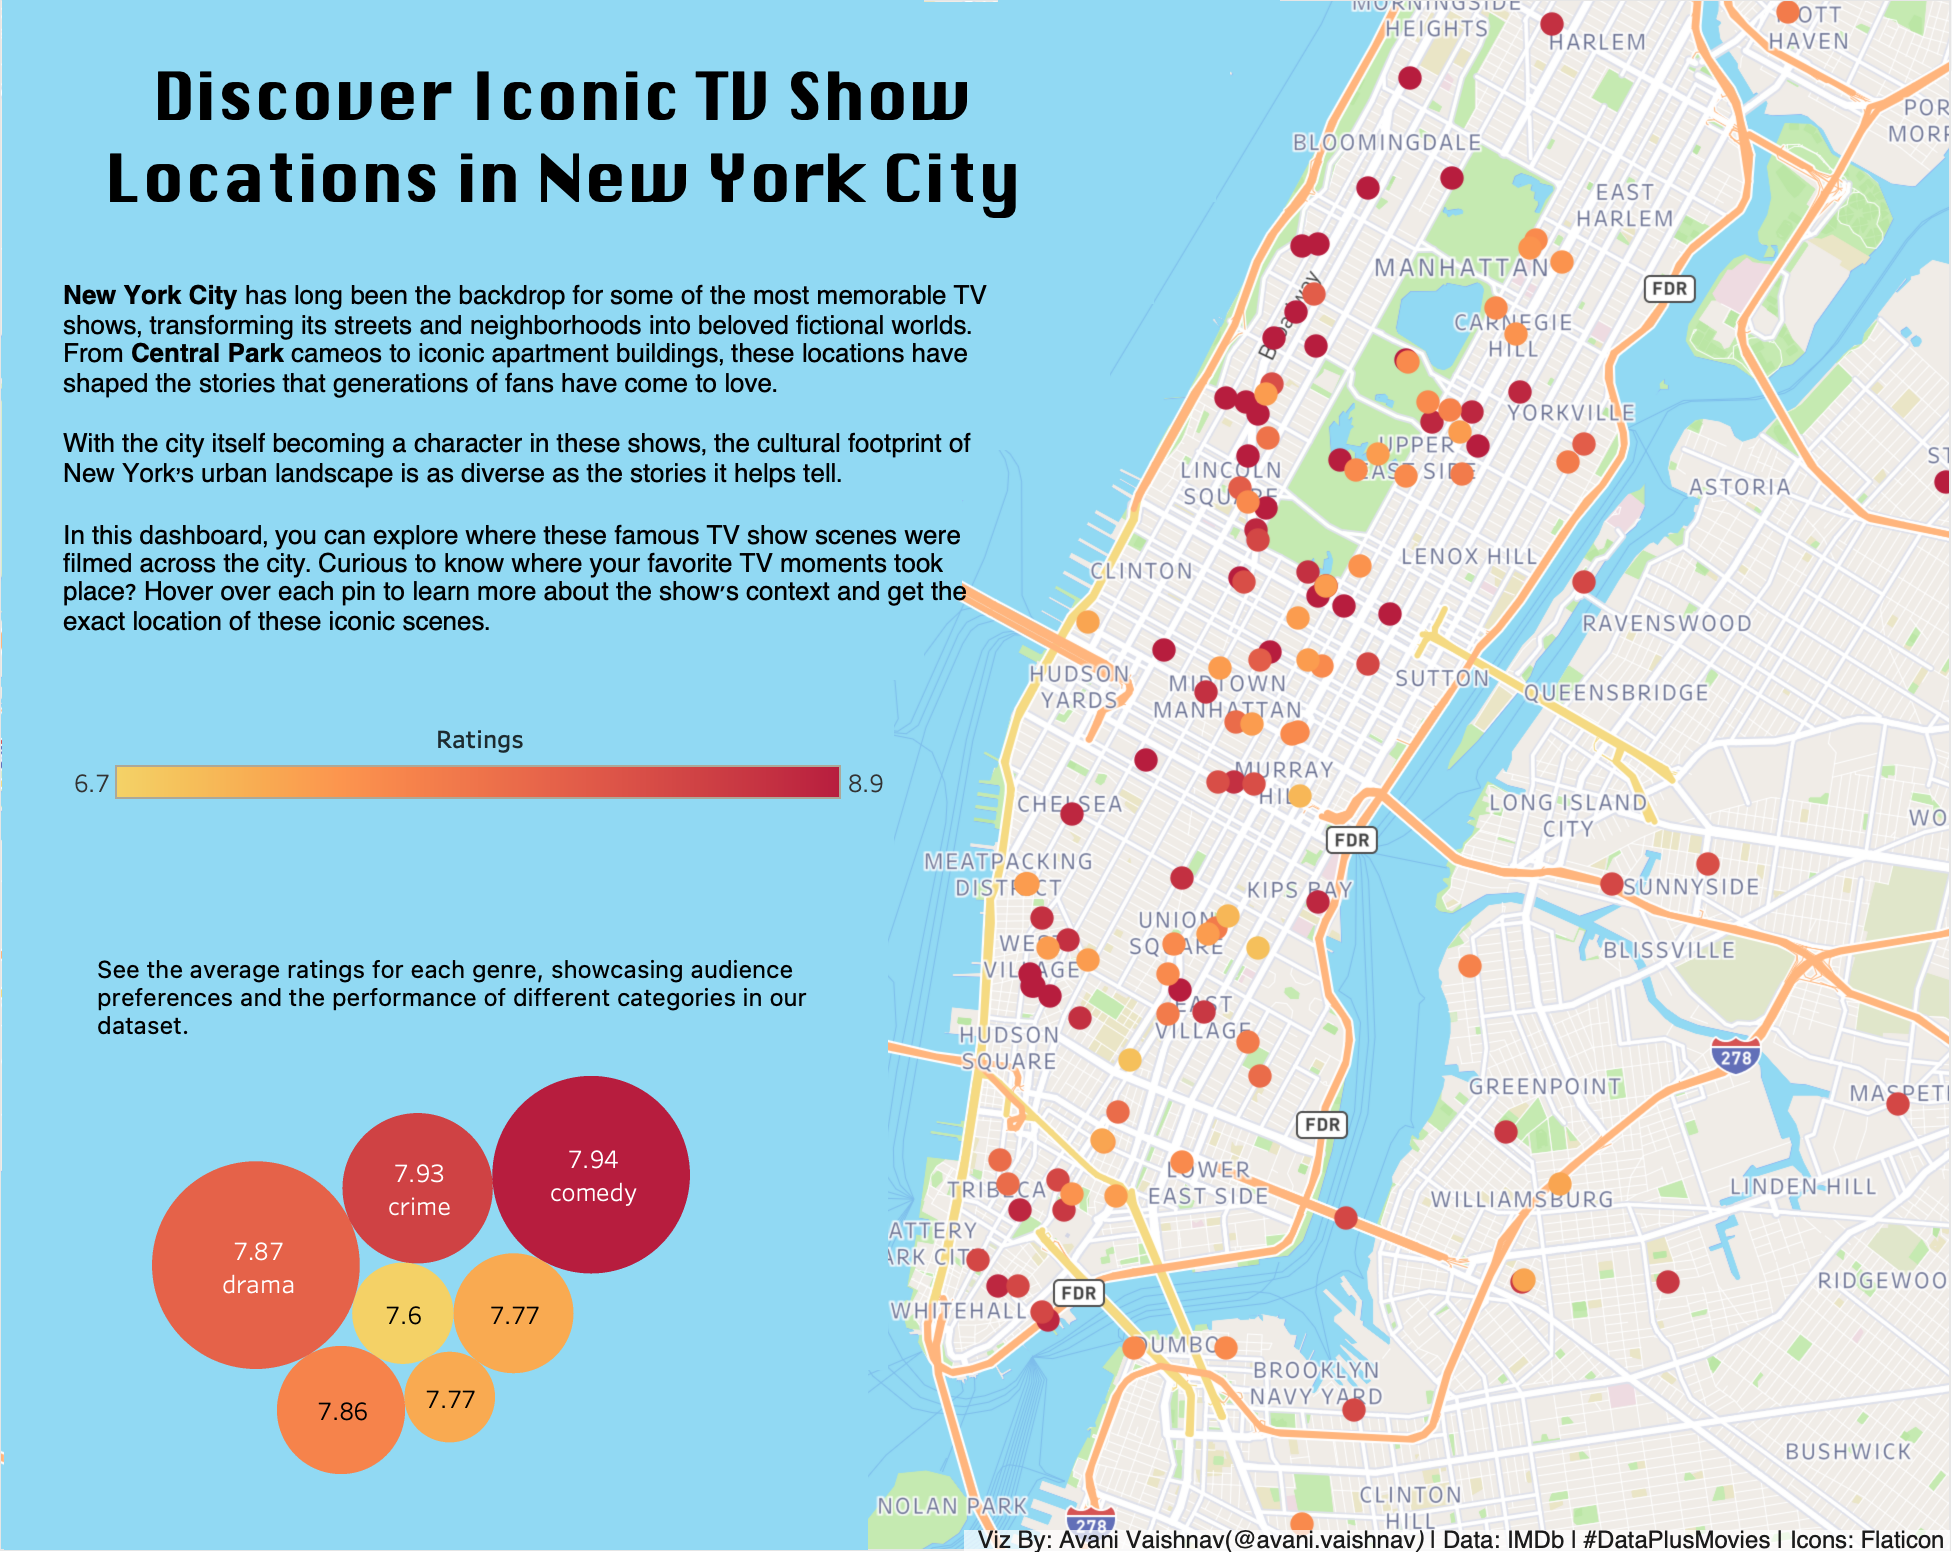
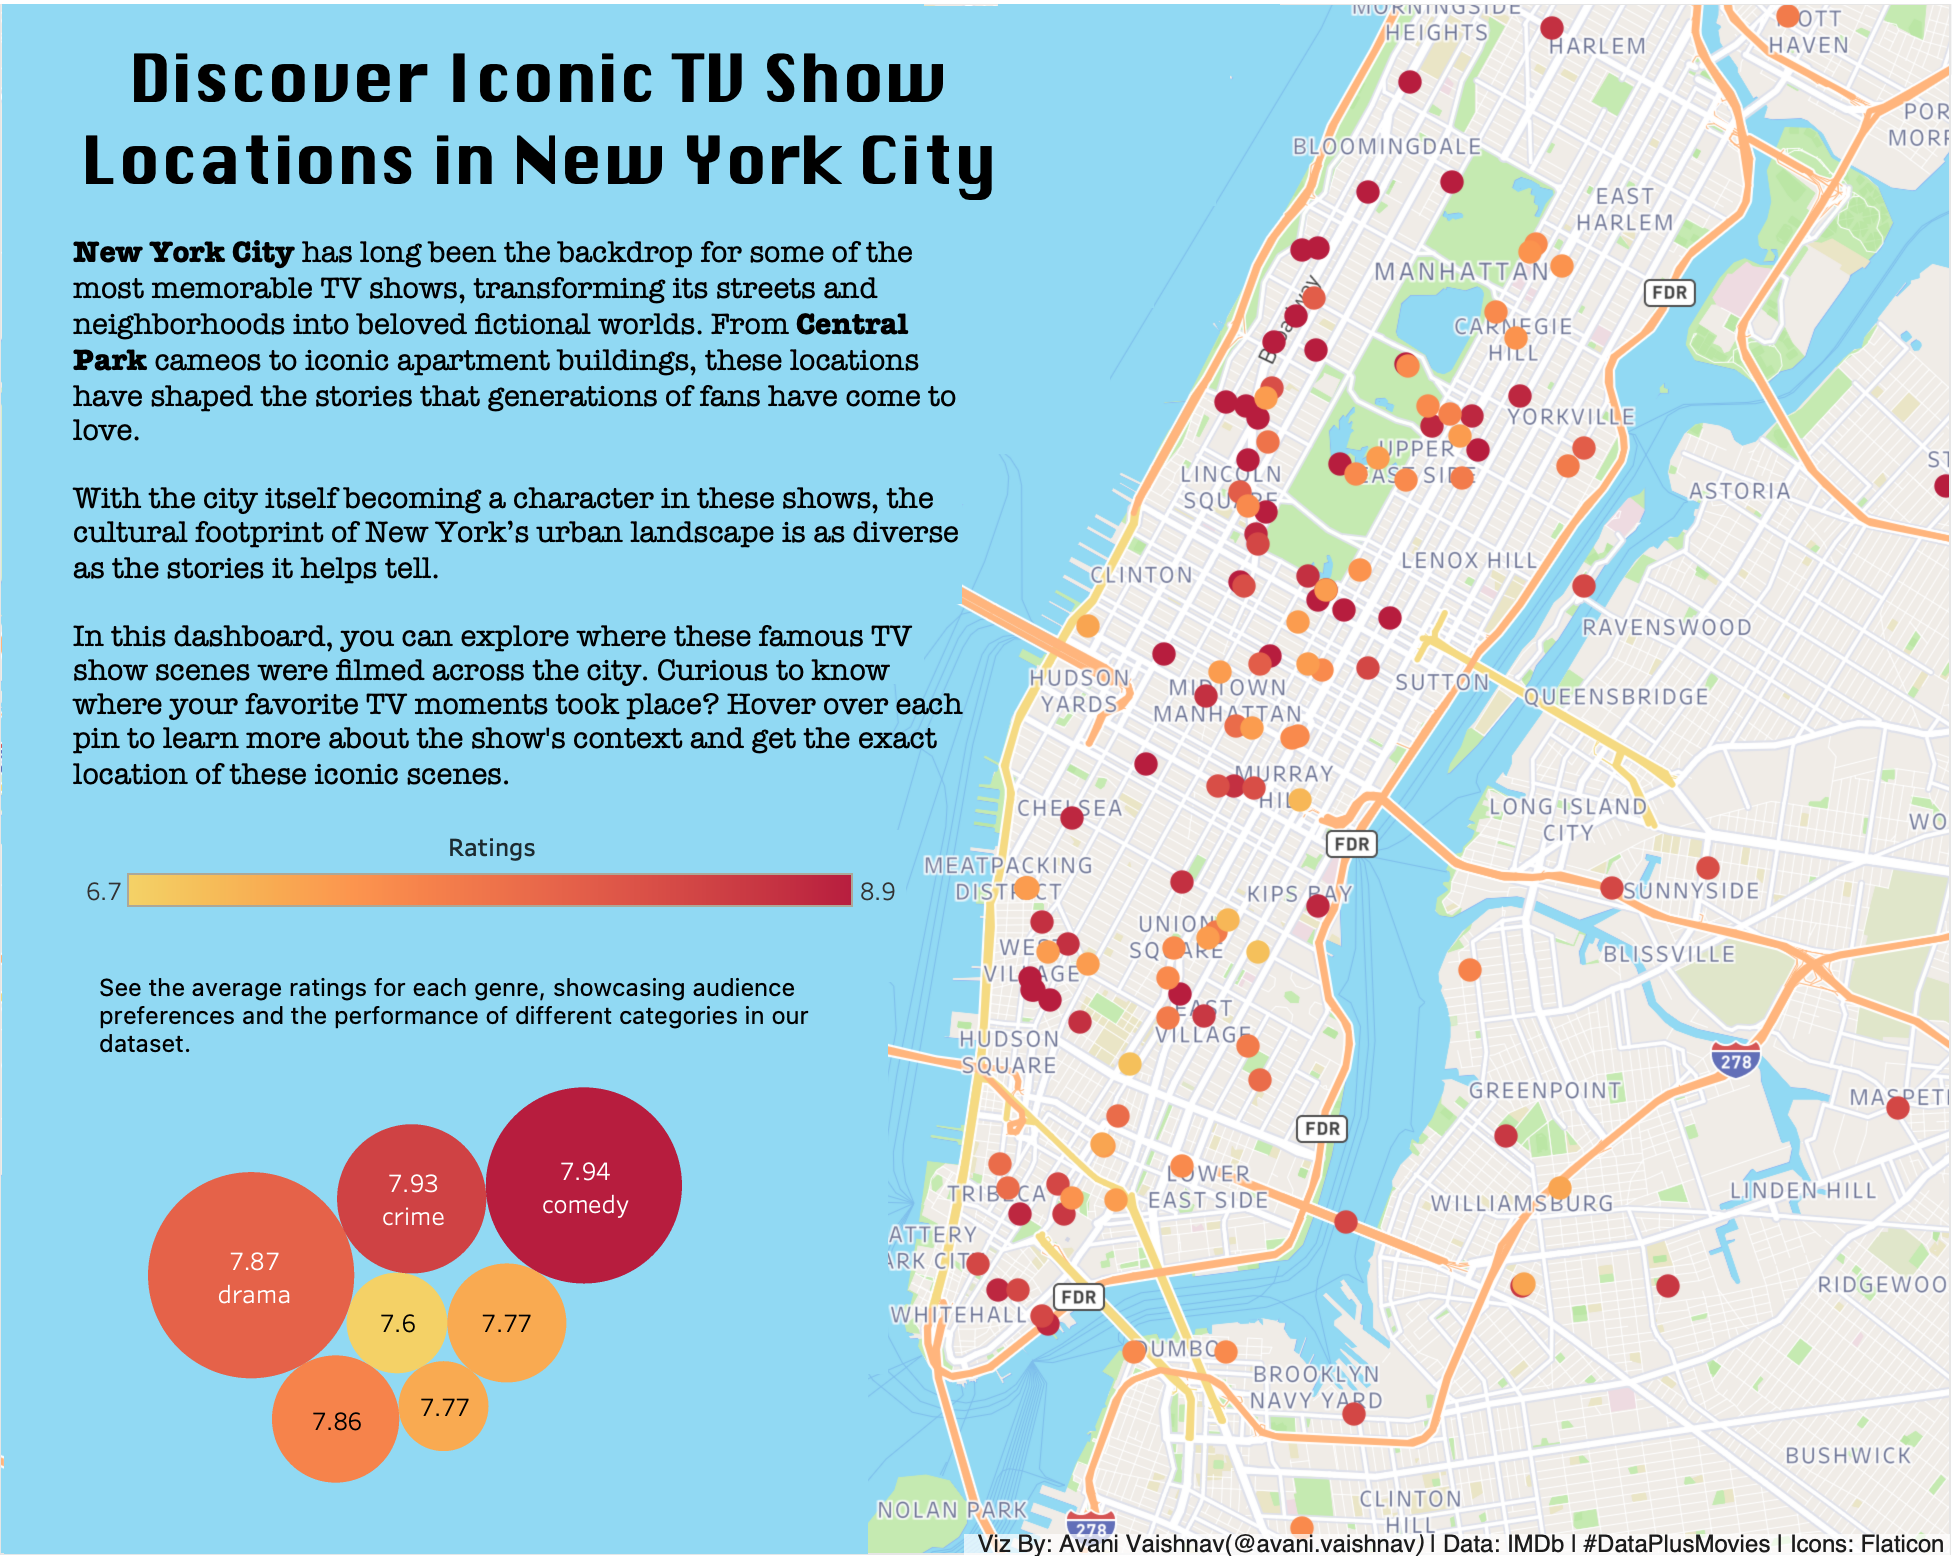
updates

diff --git a/src/components/Work.js b/src/components/Work.js
@@ -10,7 +10,8 @@ import "../styles/Work.css";
 import "../styles/Headings.css";
 
 function Work() {
-  const mgb = ["Python", "SQL", "AWS", "Healthcare Data Analysis"];
+  const cdawf = ["Excel", "Tableau"];
+  const mgb = ["Python", "SQL", "AWS", "Healthcare Data Analysis", "Tableau"];
   const nyu = ["Excel", "Python", "Web Scraping"];
   const monumint = [
     "Python",
@@ -31,6 +32,7 @@ function Work() {
     "Data QA",
     "Neural Network",
     "Healthcare Data Analysis",
+    "CI/CD",
   ];
 
   return (
@@ -45,6 +47,63 @@ function Work() {
         }}
         style={{ padding: "6px 0px" }}
       >
+        {/* <TimelineItem>
+          <TimelineSeparator>
+            <TimelineDot style={{ backgroundColor: "var(--font-color)" }} />
+            <TimelineConnector
+              style={{ backgroundColor: "var(--font-color)" }}
+            />
+          </TimelineSeparator>
+          <TimelineContent>
+            <div class="work-item">
+              <div>
+                <p class="w-heading1">Information is Beautiful Awards (IIB)</p>
+                <p class="w-heading1-subheading">Volunteer</p>
+              </div>
+              <div class="w-right-allign">
+                <p class="w-date">Dec 2024 - Present</p>
+                <p class="w-city">New York City</p>
+              </div>
+            </div>
+            <ul className="work-description">
+              <li></li>
+            </ul>
+          </TimelineContent>
+        </TimelineItem> */}
+
+        <TimelineItem>
+          <TimelineSeparator>
+            <TimelineDot style={{ backgroundColor: "var(--font-color)" }} />
+            <TimelineConnector
+              style={{ backgroundColor: "var(--font-color)" }}
+            />
+          </TimelineSeparator>
+          <TimelineContent>
+            <div class="work-item">
+              <div>
+                <p class="w-heading1">CDAWF</p>
+                <p class="w-heading1-subheading">Data Analyst</p>
+              </div>
+              <div class="w-right-allign">
+                <p class="w-date">Nov 2024 - Present</p>
+                <p class="w-city">New York City</p>
+              </div>
+            </div>
+            <ul className="work-description">
+              <li>
+                Conducted data collection and analysis to assess program impact,
+                social media engagement, and outreach strategies, driving a 25%
+                increase in community engagement.
+              </li>
+              <li>
+                Developed dashboards in Tableau to track key mental health
+                advocacy metrics, enabling data-driven decision-making.
+              </li>
+            </ul>
+            <TagChips tags={cdawf} />
+          </TimelineContent>
+        </TimelineItem>
+
         <TimelineItem>
           <TimelineSeparator>
             <TimelineDot style={{ backgroundColor: "var(--font-color)" }} />
@@ -94,6 +153,7 @@ function Work() {
             <TagChips tags={mgb} />
           </TimelineContent>
         </TimelineItem>
+
         <TimelineItem>
           <TimelineSeparator>
             <TimelineDot style={{ backgroundColor: "var(--font-color)" }} />
@@ -129,6 +189,7 @@ function Work() {
             <TagChips tags={nyu} />
           </TimelineContent>
         </TimelineItem>
+
         <TimelineItem>
           <TimelineSeparator>
             <TimelineDot style={{ backgroundColor: "var(--font-color)" }} />
@@ -165,6 +226,7 @@ function Work() {
             <TagChips tags={monumint} />
           </TimelineContent>
         </TimelineItem>
+
         <TimelineItem>
           <TimelineSeparator>
             <TimelineDot style={{ backgroundColor: "var(--font-color)" }} />

diff --git a/src/styles/index.css b/src/styles/index.css
@@ -1,14 +1,4 @@
 :root {
-  --background-color: #fff;
-  --subheading-color: #595959; /*rgb(89, 89, 89)*/
-  --description-color: #f7f6f3; /*rgb(247, 246, 243)*/
-  --font-color: #37352f; /*rgb(55, 53, 47)*/
-  --font-family: "Courier Prime", monospace;
-  --chip-font-weight: 400;
-  --shadow-color: rgba(0, 0, 0, 0.3);
-}
-
-[data-theme="dark"] {
   --background-color: #0b1416;
   --font-color: #f2f4f5;
   --subheading-color: #b7c5c7;
@@ -16,4 +6,30 @@
   --chip-font-weight: 500;
   --shadow-color: rgba(255, 255, 255, 0.3);
   --font-family: "Courier Prime", monospace;
+
+  /* --background-color: #fff;
+  --subheading-color: #595959; rgb(89, 89, 89)
+  --description-color: #f7f6f3; rgb(247, 246, 243)
+  --font-color: #37352f; rgb(55, 53, 47)
+  --font-family: "Courier Prime", monospace;
+  --chip-font-weight: 400;
+  --shadow-color: rgba(0, 0, 0, 0.3); */
+}
+
+[data-theme="dark"] {
+  /* --background-color: #0b1416;
+  --font-color: #f2f4f5;
+  --subheading-color: #b7c5c7;
+  --description-color: #303030;
+  --chip-font-weight: 500;
+  --shadow-color: rgba(255, 255, 255, 0.3);
+  --font-family: "Courier Prime", monospace; */
+
+  --background-color: #fff;
+  --subheading-color: #595959; /*rgb(89, 89, 89)*/
+  --description-color: #f7f6f3; /*rgb(247, 246, 243)*/
+  --font-color: #37352f; /*rgb(55, 53, 47)*/
+  --font-family: "Courier Prime", monospace;
+  --chip-font-weight: 400;
+  --shadow-color: rgba(0, 0, 0, 0.3);
 }

diff --git a/src/components/Projects.js b/src/components/Projects.js
@@ -49,7 +49,15 @@ const projects = [
     title: "Chess Insights: Big Data Analytics and Visualization",
     description:
       "Engineered a big data chess project leveraging Apache Airflow, Spark, AWS, and Docker to integrate data from chess.com APIs and .pgn files. Resulted in a scalable interactive web app featuring real-time visualizations and providing comprehensive insights into player statistics and game progressions.",
-    tags: ["Python", "Airflow", "AWS", "Apache Spark", "Docker", "API"],
+    tags: [
+      "Python",
+      "Airflow",
+      "AWS",
+      "Apache Spark",
+      "Docker",
+      "API",
+      "CI/CD",
+    ],
     link: "",
   },
   {

diff --git a/src/components/About.js b/src/components/About.js
@@ -6,7 +6,8 @@ function About() {
     <div class="background">
       <div className="image-container">
         <img
-          src="/headshot.jpeg"
+          src="notion-face-2.png"
+          // src="/headshot.jpeg"
           alt="Avani Vaishnav"
           className="profile-pic"
         />

diff --git a/src/components/Container.js b/src/components/Container.js
@@ -17,8 +17,8 @@ function Container({ isDark, setIsDark }) {
       <Router>
         <Navbar isDark={isDark} setIsDark={setIsDark} />
         <About />
-        <Work />
         <Projects />
+        <Work />
         <Education />
         <Skills />
         {/* <Routes></Routes> */}

diff --git a/src/styles/Footer.css b/src/styles/Footer.css
@@ -1,7 +1,8 @@
 .designed {
   margin-top: 80px;
-  margin-bottom: 0px;
+  margin-bottom: 10px;
   color: var(--font-color);
+  text-align: right;
 }
 .designed p {
   margin-top: 0px;

diff --git a/src/constants/tagColors.js b/src/constants/tagColors.js
@@ -50,5 +50,6 @@ const tagColors = {
   YOLO: "#ded6d1",
   RNN: "#a7bed3",
   Tableau: "#d2d2ff",
+  "CI/CD": "#E7D3D3",
 };
 export default tagColors;
